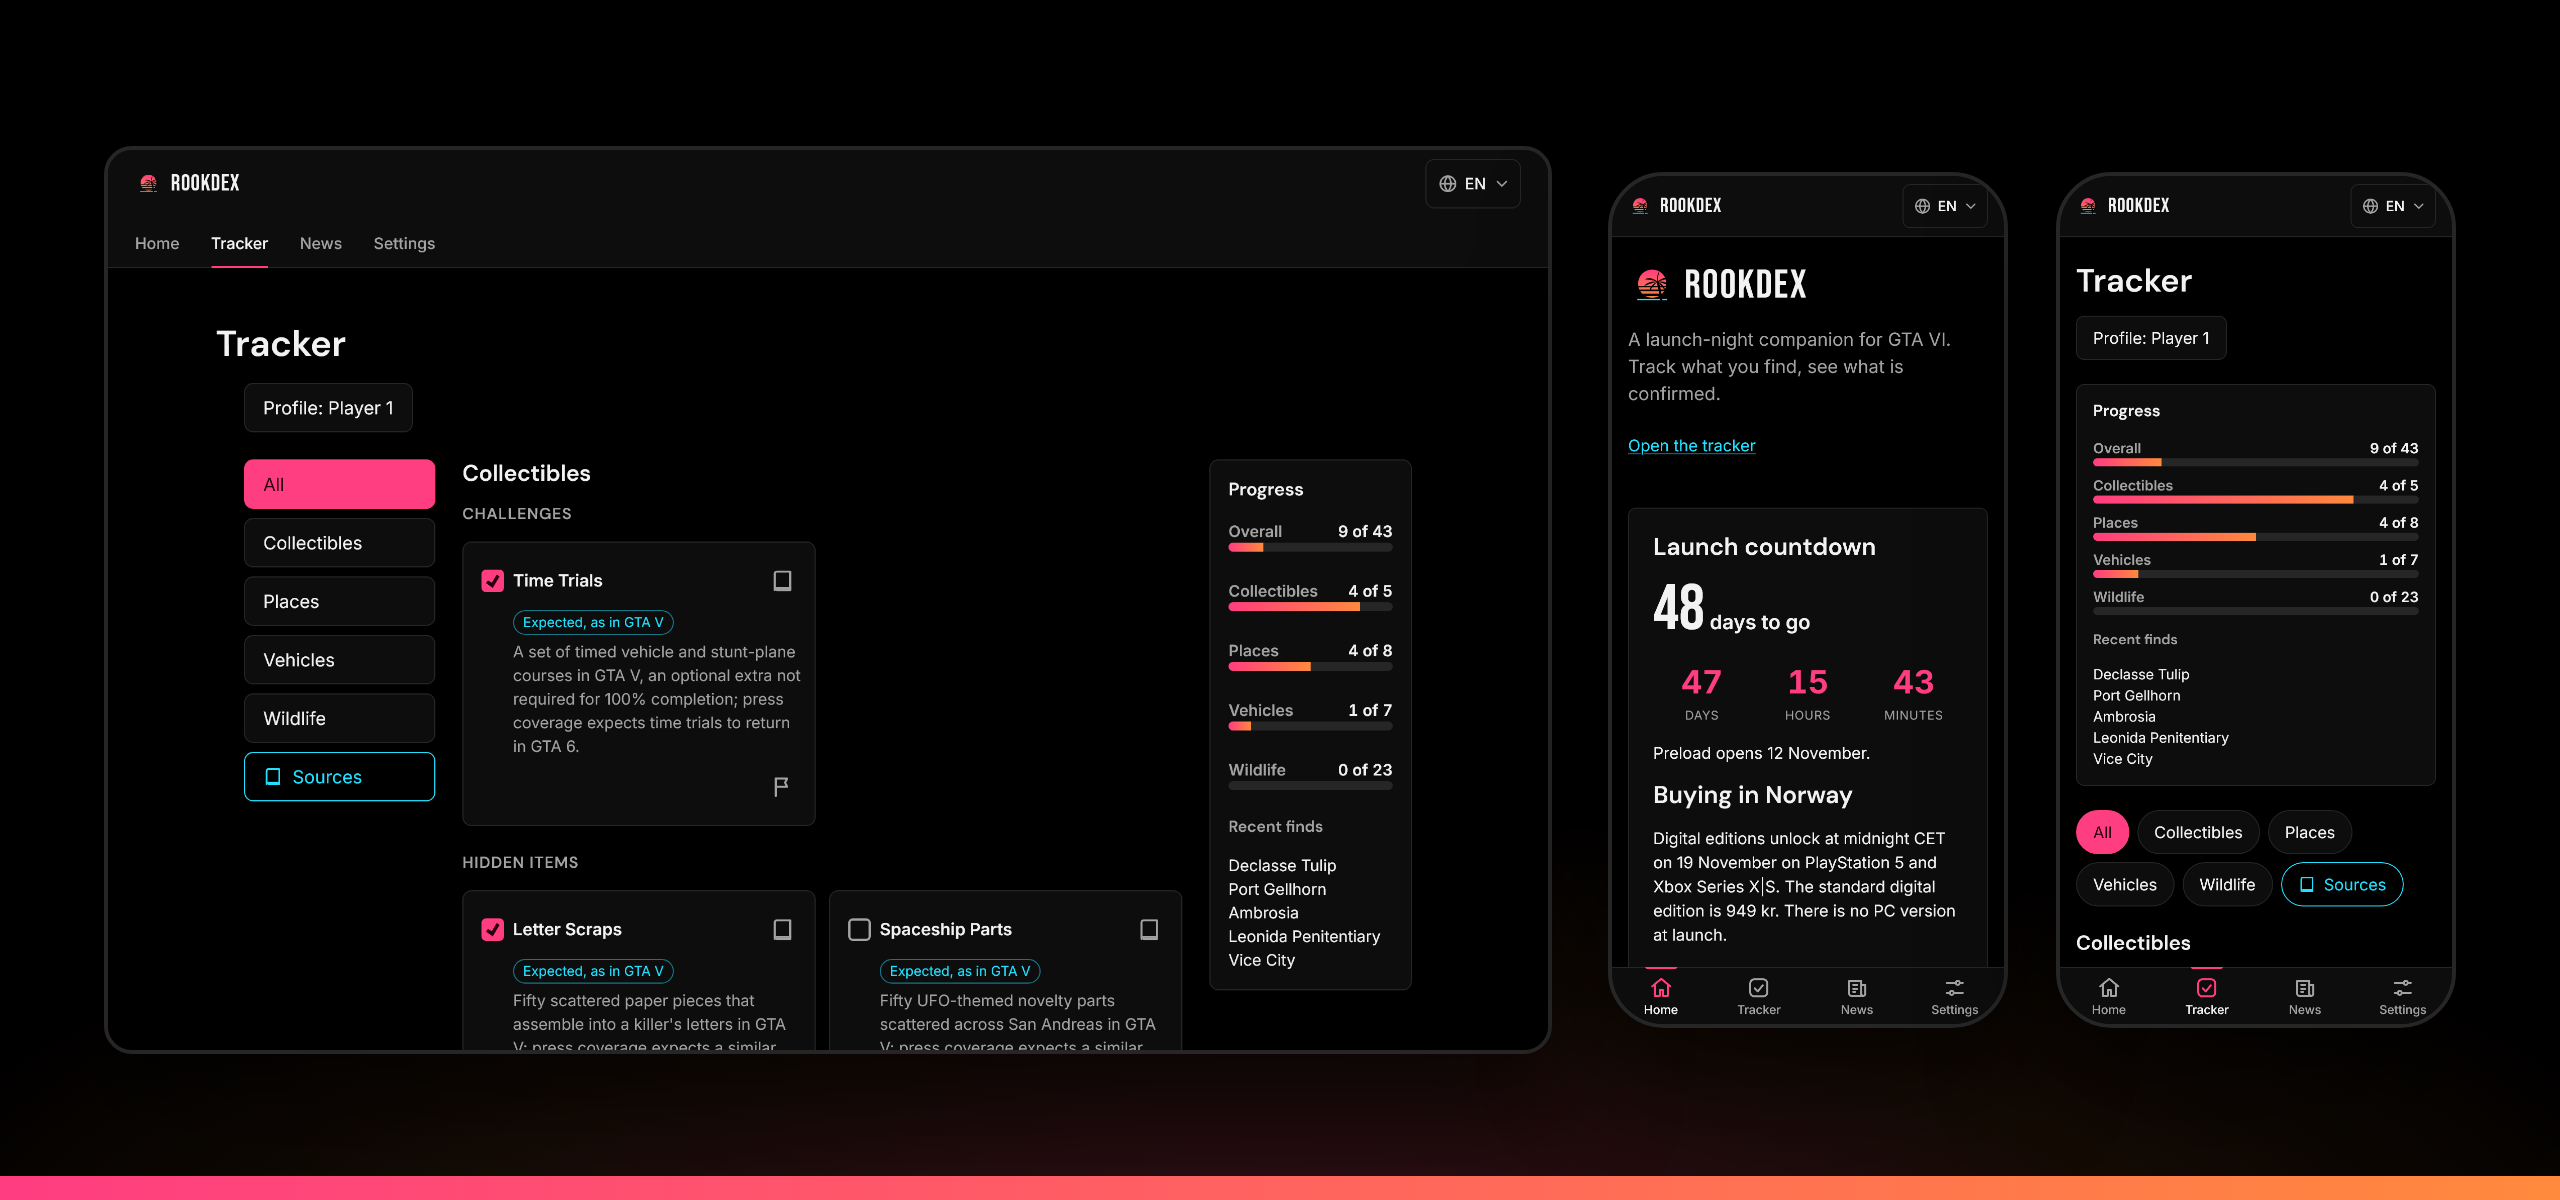
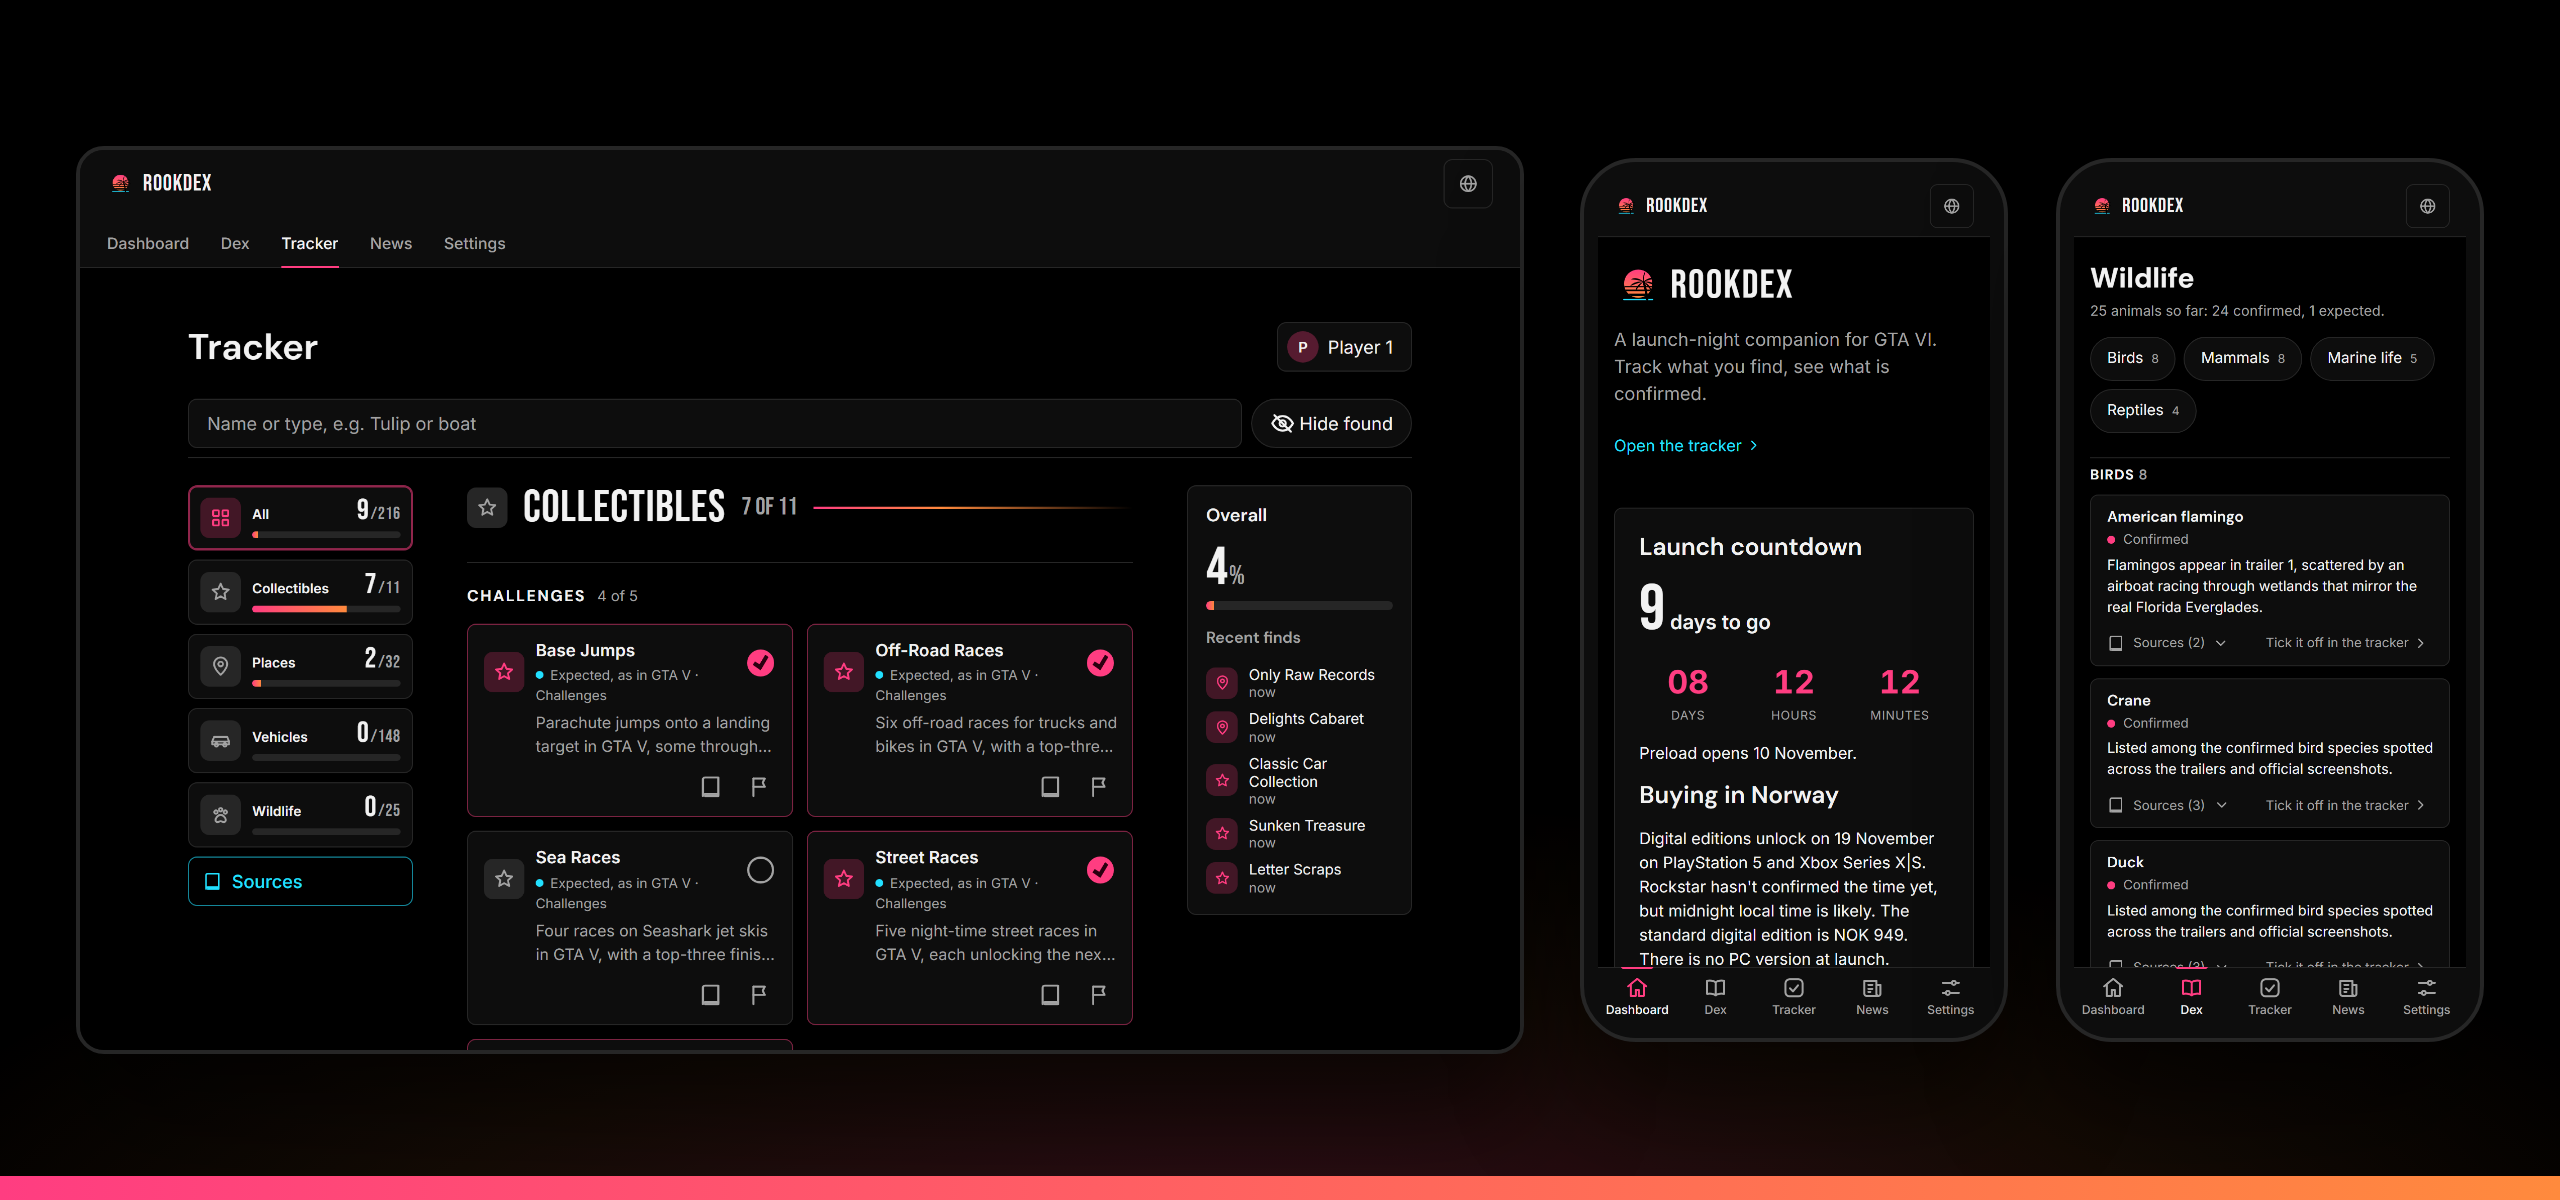
Refresh the README for the Dex, dashboard and new tracker
New screenshots of the tracker, the countdown and the Dex wildlife page. The feature list now covers the dashboard, tracker search and filters, the Dex and the News split between confirmed and reported. The phone frames get a bezel so the rounded corner no longer clips the tab bar labels.

diff --git a/docs/readme/screens.html b/docs/readme/screens.html
@@ -52,10 +52,15 @@
 				display: flex;
 				gap: 24px;
 			}
+			/* A bezel keeps the rounded corner off the screenshot, so the tab bar labels stay whole. */
 			.phone {
 				width: 196px;
 				aspect-ratio: 390 / 844;
+				padding: 7px;
 				border-radius: 28px;
+			}
+			.phone img {
+				border-radius: 12px;
 			}
 			.stripe {
 				position: absolute;
@@ -72,7 +77,7 @@
 			<div class="frame desktop"><img id="desktop-tracker" alt="" /></div>
 			<div class="phones">
 				<div class="frame phone"><img id="phone-hub" alt="" /></div>
-				<div class="frame phone"><img id="phone-tracker" alt="" /></div>
+				<div class="frame phone"><img id="phone-dex" alt="" /></div>
 			</div>
 			<div class="stripe"></div>
 		</div>

diff --git a/README.md b/README.md
@@ -6,18 +6,19 @@ Leonida is waiting, and you'll want somewhere to keep score. Rookdex gives you a
 
 **[Open rookdex.app](https://rookdex.app)** · English and Norsk · free · no account
 
-<a href="https://rookdex.app"><img src="docs/readme/screens.png" alt="Rookdex on desktop and phone: the tracker with progress bars per category, the launch countdown, and the tracker on a phone." width="100%"></a>
+<a href="https://rookdex.app"><img src="docs/readme/screens.png" alt="Rookdex on desktop and phone: the tracker with search and progress per category, the launch countdown, and the Dex wildlife page." width="100%"></a>
 
 ## <img src="docs/readme/map.svg" width="22" height="22" alt=""> What you get
 
-- **A countdown** to 19 November 2026, ticking down to the minute. At midnight on launch night the home page turns into your dashboard.
-- **A tracker** for wildlife, vehicles, places and collectibles. Spot a gator, tick a box, watch the bar fill up.
-- **Confirmed, expected or rumour.** Every tracker item shows its tier and its sources. Rumours live on the News page with a label on them, so you can tell a trailer frame from somebody's cousin's friend.
+- **A countdown, then a dashboard.** Days, hours and minutes to 19 November 2026. At midnight on launch night the home page turns into your dashboard: overall progress, the category you're closest to finishing, what's next, your finds by day and the latest news.
+- **A tracker** with over 200 animals, vehicles, places and collectibles. Search by name or type, filter by category and group, hide what you've found. Spot a gator, tick a box, watch the bar fill up.
+- **The Dex.** Every animal, vehicle, place and collectible on one page per category, each with its status and a link to the trailer or report that shows it. Search it the same way as the tracker.
+- **Confirmed, expected or rumour.** Every item shows its tier and its sources. The News page keeps what Rockstar and Take-Two have confirmed apart from what the press reports, so you can tell a trailer frame from somebody's cousin's friend.
 - **Two short guides.** Before you start covers editions and what to sort out before launch night. Your first hour covers what to check, claim and skip once the game unlocks.
 
 ## <img src="docs/readme/save.svg" width="22" height="22" alt=""> Your save file stays with you
 
-Your progress lives in your browser, not on a server. No account, no password, no "please verify your email". Install it to your home screen and it keeps working offline, even in a basement with zero bars. Switching phones? Export your profile and take it with you.
+Your progress lives in your browser, not on a server. No account, no password, no "please verify your email". Install it to your home screen and it keeps working offline, even in a basement with zero bars. Sharing a console? Give each player their own profile. Switching phones? Export your profile and take it with you.
 
 ## <img src="docs/readme/print.svg" width="22" height="22" alt=""> The small print
 
